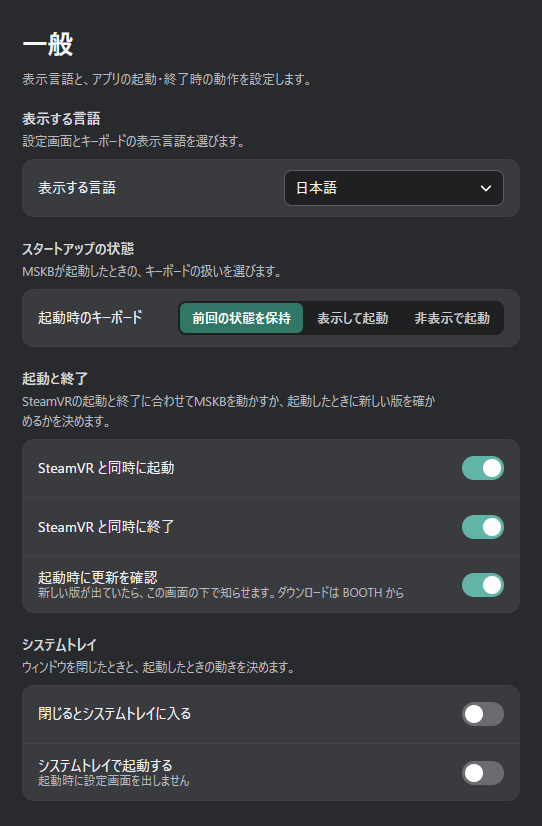
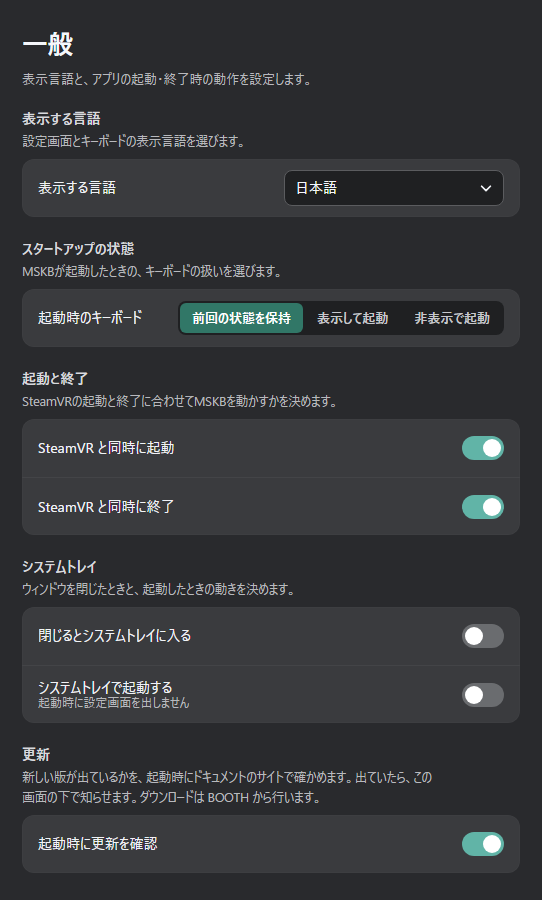
docs: update for MSKB v1.0.2 and list 1.0.2 as the latest version
The v1.0.2 post, the Updates section in the General settings (page and
screenshots), the saved Recent symbols, and static/latest.json.

diff --git a/blog/2026-11-22-mskb-v1-0-2/index.md b/blog/2026-11-22-mskb-v1-0-2/index.md
@@ -1,0 +1,35 @@
+---
+title: MSKB v1.0.2
+description: キーとキーの間のすき間を押しても入力されるようにし、記号の「よく使う」を再起動しても残し、更新の確認を設定画面の独立した項目にしました。
+slug: mskb-v1-0-2
+date: 2026-11-22
+---
+
+MSKB **v1.0.2** を公開しました。速く打っているときにキーのすき間を押して何も入らない、ということがなくなりました。記号の「よく使う」も、MSKB を起動し直しても残ります。
+
+<!-- truncate -->
+
+## 改善
+
+### キーのすき間も押せるように
+
+キーとキーの間にはすき間があり、そこを指して押すと何も入りませんでした。速く打っていると、押したつもりのキーが入らないことがありました。
+
+v1.0.2 から、すき間を指したときは、近い方のキーが押されます。キーの見た目は変わりません。
+
+### 記号の「よく使う」が残るように
+
+記号のページの「よく使う」（最近入れた記号と絵文字）は、MSKB を起動し直すと消えていました。v1.0.2 からは、起動し直しても残ります。最大 22 個まで、新しいものから並びます。
+
+くわしくは [記号と絵文字](/input/symbols) をご覧ください。
+
+### 「更新」を設定画面の独立した項目に
+
+設定画面の「一般」の一番下に、「更新」の項目を作りました。「起動時に更新を確認」は、ここでオンとオフを切り替えます。確認する内容と、知らせるだけでダウンロードはしないことを、項目の説明に書いています。
+
+くわしくは [新しい版のお知らせ](/settings/pc#新しい版のお知らせ) をご覧ください。
+
+## ダウンロード
+
+- [ダウンロード（BOOTH）](https://misyaguziya.booth.pm/items/9093442)
+- [不具合・要望（GitHub Issues）](https://github.com/misyaguziya/MSKB-Docs/issues)

diff --git a/i18n/en/docusaurus-plugin-content-blog/2026-11-22-mskb-v1-0-2/index.md b/i18n/en/docusaurus-plugin-content-blog/2026-11-22-mskb-v1-0-2/index.md
@@ -1,0 +1,35 @@
+---
+title: MSKB v1.0.2
+description: Pressing the gap between keys now types the nearer key, the symbol page's Recent tab is kept after a restart, and the update check has its own section in the settings.
+slug: mskb-v1-0-2
+date: 2026-11-22
+---
+
+**MSKB v1.0.2** is out. When you type fast, pressing the gap between two keys no longer types nothing. The symbol page's "Recent" tab is also kept after MSKB restarts.
+
+<!-- truncate -->
+
+## Improvements
+
+### The gaps between keys can be pressed
+
+There is a gap between keys, and pressing it typed nothing. When typing fast, a key you thought you had pressed sometimes did not go in.
+
+From v1.0.2, pressing a gap presses the nearer key. The keys look the same as before.
+
+### "Recent" on the symbol page is kept
+
+The symbol page's "Recent" tab (the symbols and emoji you entered last) was cleared when MSKB restarted. From v1.0.2 it is kept after a restart: up to 22, newest first.
+
+See [Symbols and emoji](/input/symbols) for details.
+
+### "Updates" has its own section in the settings
+
+The settings window's "General" page now has an "Updates" section at the bottom. "Check for updates at startup" is switched on and off there. Its description says what is checked, and that MSKB only tells you and never downloads.
+
+See [New version notice](/settings/pc#update-notice) for details.
+
+## Download
+
+- [Download (BOOTH)](https://misyaguziya.booth.pm/items/9093442)
+- [Bugs and requests (GitHub Issues)](https://github.com/misyaguziya/MSKB-Docs/issues)

diff --git a/docs/settings/pc.md b/docs/settings/pc.md
@@ -22,9 +22,9 @@ Windows のタスクトレイにある MSKB のアイコンを押すか、右ク
 | 表示する言語 | 設定画面とキーボードの表示言語 | ○ |
 | 起動時のキーボード | 前回の状態を保持 / 表示して起動 / 非表示で起動 | ○ |
 | SteamVR と同時に起動 / 終了 | SteamVR の起動・終了に合わせて MSKB も起動・終了する | |
-| 起動時に更新を確認 | 新しい版が出ていたら知らせる（初期設定はオン。[新しい版のお知らせ](#新しい版のお知らせ)） | |
 | 閉じるとシステムトレイに入る | 設定画面の「×」で終了せず、トレイに入る（初期設定はオフ） | |
 | システムトレイで起動する | 起動したときに設定画面を出さない | |
+| 起動時に更新を確認 | 新しい版が出ていたら知らせる（初期設定はオン。[新しい版のお知らせ](#新しい版のお知らせ)） | |
 
 ### 新しい版のお知らせ
 

diff --git a/i18n/en/docusaurus-plugin-content-docs/current/settings/pc.md b/i18n/en/docusaurus-plugin-content-docs/current/settings/pc.md
@@ -22,9 +22,9 @@ Settings marked ○ in the "VR" column can also be changed with the VR gear. Bot
 | Language | The language of the settings window and the keyboard | ○ |
 | Keyboard at startup | Keep the last state / Show it / Hide it | ○ |
 | Start with SteamVR / Quit with SteamVR | Starts and quits MSKB along with SteamVR | |
-| Check for updates at startup | Tells you when a new version is out (on by default; see [New version notice](#update-notice)) | |
 | Closing goes to the system tray | The window's "×" goes to the tray instead of quitting (off by default) | |
 | Start in the system tray | Doesn't show the settings window at startup | |
+| Check for updates at startup | Tells you when a new version is out (on by default; see [New version notice](#update-notice)) | |
 
 ### New version notice {#update-notice}
 

diff --git a/docs/input/symbols.md b/docs/input/symbols.md
@@ -13,7 +13,7 @@ description: 記号ページと定型文の登録
 
 | タブ | 入っているもの |
 |---|---|
-| よく使う | 最近入れた記号（MSKB を起動し直すと消えます） |
+| よく使う | 最近入れた記号と絵文字（MSKB を起動し直しても残ります。最大 22 個、新しいものから） |
 | 記号 | 基本の記号、和文の約物、中文・韓国語の記号 |
 | 括弧 | 括弧（両方が入り、カーソルが間に来ます） |
 | 図形 | ☆ ○ ◇ □ △ ♪ ♡ など |

diff --git a/i18n/en/docusaurus-plugin-content-docs/current/input/symbols.md b/i18n/en/docusaurus-plugin-content-docs/current/input/symbols.md
@@ -13,7 +13,7 @@ To go back to the letter keys, press the key in the same place (it shows the lan
 
 | Tab | Contents |
 |---|---|
-| Recent | Symbols you entered recently (cleared when MSKB restarts) |
+| Recent | Symbols and emoji you entered recently (kept after MSKB restarts; up to 22, newest first) |
 | Symbols | Basic symbols, Japanese punctuation, Chinese and Korean marks |
 | Brackets | Brackets (both sides are entered, with the cursor between them) |
 | Shapes | ☆ ○ ◇ □ △ ♪ ♡ and more |
